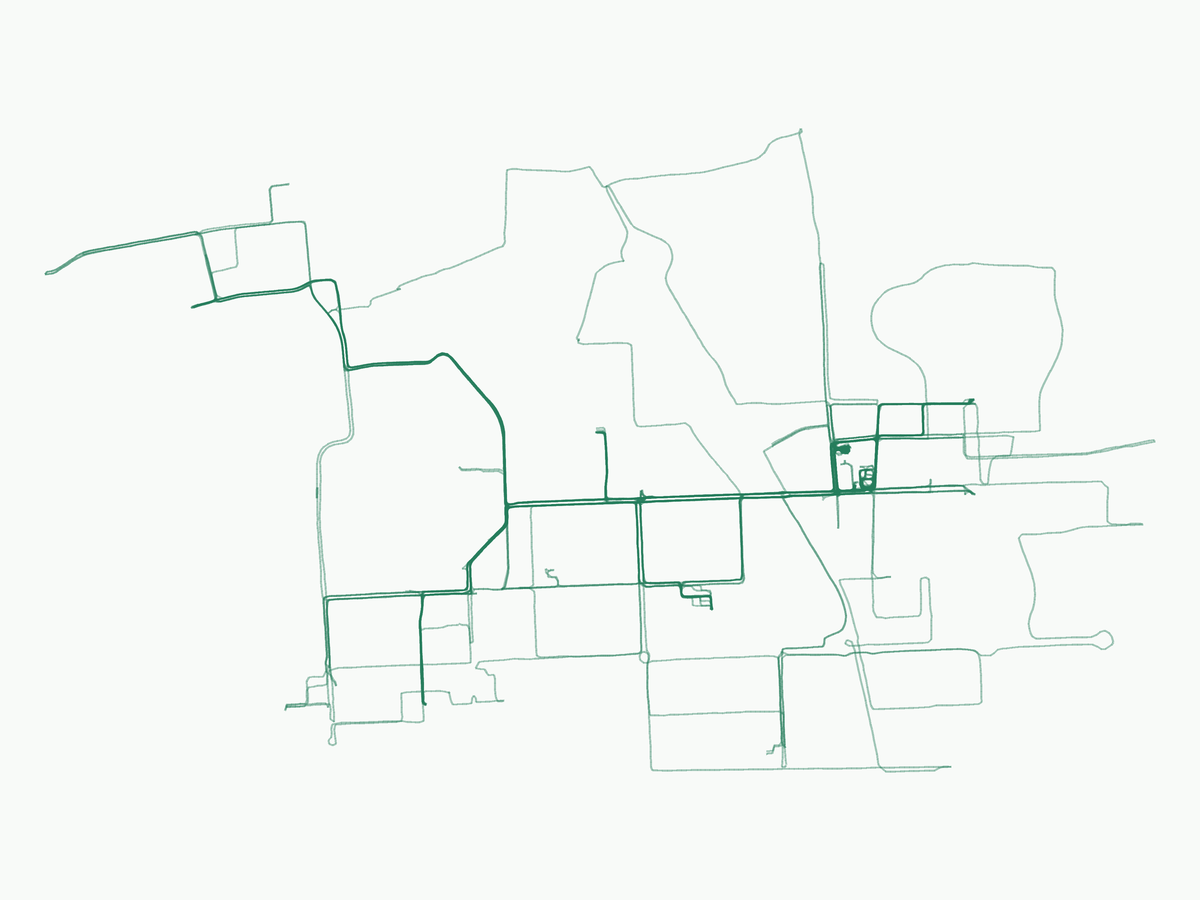
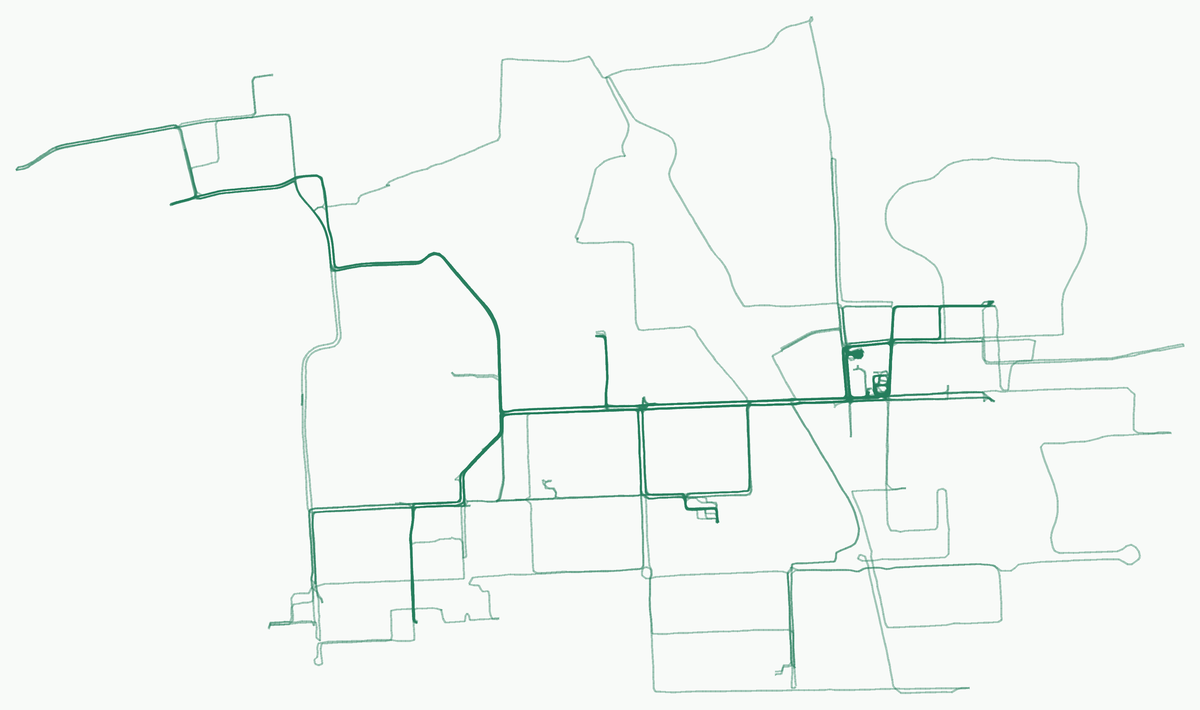
Fit track images and verify complete public update publication

diff --git a/nbmap/cloud.py b/nbmap/cloud.py
@@ -181,10 +181,26 @@ def publish_site_data(root, dataset, destination, updated_at):
         write_text(hosts_path, destination['known_hosts'].strip() + '\n')
         result = command(['ssh', '-T', '-i', str(key_path), '-p', str(port), '-o', 'IdentitiesOnly=yes', '-o', 'BatchMode=yes',
                  '-o', 'StrictHostKeyChecking=yes', '-o', f'UserKnownHostsFile={hosts_path}',
-                 f'{user}@{host}', 'publish-map'], data=body, timeout=120)
-        if result.stdout.decode().strip() != 'Published public map ' + digest:
-            raise ValueError('服务器发布回执与地图数据不一致')
-    return digest
+                 f'{user}@{host}', 'publish-map'], data=body, timeout=120, check=False)
+        if result.returncode:
+            raise CommandFailure(['ssh', '-T'], result)
+        prefix = 'Public map receipt: '
+        reply = result.stdout.decode().strip()
+        if not reply.startswith(prefix):
+            raise ValueError('服务器发布回执无效')
+        receipt = json.loads(reply[len(prefix):])
+        if not isinstance(receipt, dict) or set(receipt) != {'status', 'reason', 'sha256', 'updated_at', 'requested_updated_at'} or not re.fullmatch(r'[a-f0-9]{64}', receipt.get('sha256', '')) or receipt.get('requested_updated_at') != public['updated_at']:
+            raise ValueError('服务器发布回执无效')
+        if receipt['status'] == 'skipped_older':
+            if receipt['reason'] != 'current_is_newer' or datetime.fromisoformat(receipt['updated_at'].replace('Z', '+00:00')) <= datetime.fromisoformat(public['updated_at'].replace('Z', '+00:00')):
+                raise ValueError('服务器拒旧回执无效')
+        elif receipt['status'] in ('published', 'unchanged'):
+            if receipt['sha256'] != digest or receipt['updated_at'] != public['updated_at']:
+                raise ValueError('服务器发布回执与地图数据不一致')
+        else:
+            raise ValueError('服务器发布回执状态无效')
+        print('Site receipt: ' + json.dumps(receipt, sort_keys=True))
+        return receipt
 
 
 def execute_worker(payload, key, session, settings, root, *, force=False, publish_only=False, source=None, now=None):
@@ -236,6 +252,15 @@ def execute_worker(payload, key, session, settings, root, *, force=False, publis
 def worker(root):
     # Every failure message is fixed text; never print upstream bodies, secret envs or tracebacks.
     settings = read_json(root / 'sync-settings.json')
+    public_request = os.environ.get('SYNC_PUBLIC_REQUEST_ID', '')
+    if public_request:
+        if not re.fullmatch(r'[a-f0-9]{8}-[a-f0-9]{4}-4[a-f0-9]{3}-[89ab][a-f0-9]{3}-[a-f0-9]{12}', public_request):
+            raise ValueError('公开更新请求标识无效')
+        if os.environ.get('SYNC_FORCE', '').lower() != 'true' or os.environ.get('SYNC_PUBLISH_ONLY', '').lower() == 'true':
+            raise ValueError('公开更新必须执行采集')
+        destinations = settings.get('publish_repos', [])
+        if not settings.get('enabled', True) or not settings.get('site') or len(destinations) != 2 or len({item.get('repo') for item in destinations}) != 2:
+            raise ValueError('公开更新需要启用同步、网站和两个图片目标')
     command(['git', 'fetch', '--depth', '1', 'origin', 'state'], cwd=root)
     blob = command(['git', 'show', 'FETCH_HEAD:state.enc'], cwd=root).stdout
     key = os.environ['CLOUD_STATE_KEY'].encode()
@@ -255,11 +280,13 @@ def worker(root):
             shutil.copyfile(root / 'github-known-hosts', temporary / 'known-hosts')
             publish_image(temporary, image, settings.get('publish_repos', []))
             if settings.get('site'):
-                updated['files']['sessions/schedule-state.json']['site_sha256'] = publish_site_data(temporary, datasets[0], settings['site'], updated['files']['sessions/schedule-state.json']['last_success'])
+                receipt = publish_site_data(temporary, datasets[0], settings['site'], updated['files']['sessions/schedule-state.json']['last_success'])
+                state = updated['files']['sessions/schedule-state.json']
+                state.update(site_sha256=receipt['sha256'], site_publication_status=receipt['status'], site_data_updated_at=receipt['updated_at'], site_checked_at=datetime.now(timezone.utc).isoformat())
             publication = updated['files']['sessions/schedule-state.json']
             publication['publication_pending'] = False
             publication.pop('publication_error', None)
-            if settings.get('site'):
+            if settings.get('site') and receipt['status'] == 'published':
                 publication['site_published_at'] = datetime.now(timezone.utc).isoformat()
             if settings.get('publish_repos'):
                 publication['image_published_at'] = datetime.now(timezone.utc).isoformat()
@@ -279,7 +306,7 @@ def worker(root):
              'commit', '-m', 'Update encrypted sync state'], cwd=output)
     command(['git', 'push', 'origin', 'HEAD:state'], cwd=output)
     state = updated['files'].get('sessions/schedule-state.json', {})
-    print('Publication receipt: ' + json.dumps({'mode': 'publish_only' if publish_only else 'sync', 'last_success_before': previous_success, 'last_success_after': state.get('last_success'), 'publication_pending': state.get('publication_pending'), 'site_sha256': state.get('site_sha256')}))
+    print('Publication receipt: ' + json.dumps({'mode': 'publish_only' if publish_only else 'sync', 'last_success_before': previous_success, 'last_success_after': state.get('last_success'), 'publication_pending': state.get('publication_pending'), 'site_sha256': state.get('site_sha256'), 'site_status': state.get('site_publication_status'), 'site_updated_at': state.get('site_data_updated_at')}))
     print('Encrypted checkpoint saved. Only configured display outputs were published.')
     return code
 

diff --git a/tests/test_public_map.py b/tests/test_public_map.py
@@ -94,11 +94,25 @@ class PublicMapTests(unittest.TestCase):
             original = target.read_bytes()
             old = copy.deepcopy(data)
             old['updated_at'] = '2020-01-01T00:00:00Z'
-            for payload in [old, {**data, 'tokens': 'PRIVATE_SENTINEL'}]:
-                result = send(payload)
-                self.assertEqual(result.returncode, 1)
-                self.assertNotIn(b'PRIVATE_SENTINEL', result.stderr)
-                self.assertEqual(target.read_bytes(), original)
+            old['tracks'][0]['points'][0][0] += .0001
+            result = send(old)
+            self.assertEqual(result.returncode, 0)
+            receipt = json.loads(result.stdout.decode().split('Public map receipt: ')[1])
+            self.assertEqual(receipt['status'], 'skipped_older')
+            self.assertEqual(receipt['reason'], 'current_is_newer')
+            self.assertEqual(target.read_bytes(), original)
+            receipt = json.loads(send(data).stdout.decode().split('Public map receipt: ')[1])
+            self.assertEqual(receipt['status'], 'unchanged')
+            self.assertEqual(target.read_bytes(), original)
+            result = send({**data, 'tokens': 'PRIVATE_SENTINEL'})
+            self.assertEqual(result.returncode, 1)
+            self.assertNotIn(b'PRIVATE_SENTINEL', result.stderr)
+            self.assertEqual(target.read_bytes(), original)
+            newer = copy.deepcopy(data)
+            newer['updated_at'] = '2026-10-05T08:00:00Z'
+            receipt = json.loads(send(newer).stdout.decode().split('Public map receipt: ')[1])
+            self.assertEqual(receipt['status'], 'published')
+            self.assertEqual(json.loads(target.read_bytes())['updated_at'], newer['updated_at'])
 
     def test_loopback_static_server_allows_only_get_head_and_exported_paths(self):
         spec = importlib.util.spec_from_file_location('static_map_server', 'scripts/serve-public-map.py')
@@ -154,7 +168,7 @@ class PublicMapTests(unittest.TestCase):
                 self.assertEqual(key_path.stat().st_mode & 0o777, 0o600)
                 validate_public(json.loads(kwargs['data']))
                 self.assertNotIn(b'snapshot_ids', kwargs['data'])
-                return subprocess.CompletedProcess(args, 0, stdout=('Published public map ' + hashlib.sha256(kwargs['data']).hexdigest() + '\n').encode(), stderr=b'')
+                return subprocess.CompletedProcess(args, 0, stdout=('Public map receipt: ' + json.dumps({'status':'published','reason':'accepted','sha256':hashlib.sha256(kwargs['data']).hexdigest(),'updated_at':'2026-10-05T08:00:00Z','requested_updated_at':'2026-10-05T08:00:00Z'}) + '\n').encode(), stderr=b'')
             with patch.dict('os.environ', {'MAP_DEPLOY_KEY': 'synthetic-secret'}), patch('nbmap.cloud.command', side_effect=send):
                 publish_site_data(root, source, {'host': 'example.invalid', 'user': 'map', 'known_hosts': 'synthetic public host key'}, '2026-10-05T08:00:00Z')
             self.assertEqual(len(calls), 1)
@@ -182,7 +196,7 @@ class PublicMapTests(unittest.TestCase):
                 return result
             with patch.dict('os.environ', {'MAP_DEPLOY_KEY': 'synthetic-secret'}), patch('nbmap.cloud.command', side_effect=receive):
                 receipt = publish_site_data(sender, source, {'host': 'example.invalid', 'user': 'map', 'known_hosts': 'synthetic public host key'}, '2026-10-05T08:00:00Z')
-            self.assertEqual(receipt, hashlib.sha256(target.read_bytes()).hexdigest())
+            self.assertEqual(receipt['sha256'], hashlib.sha256(target.read_bytes()).hexdigest())
             self.assertEqual(json.loads(target.read_bytes())['updated_at'], '2026-10-05T08:00:00Z')
             self.assertEqual(list(sender.iterdir()), [source])
 

diff --git a/tests/test_cloud.py b/tests/test_cloud.py
@@ -79,7 +79,7 @@ class CloudTests(unittest.TestCase):
                         (root / 'work/state-publish').mkdir(parents=True)
                     return subprocess.CompletedProcess(args, 0, stdout=seal(self.payload, self.key) if args[:2] == ['git', 'show'] else b'', stderr=b'')
                 log = io.StringIO()
-                with patch.dict('os.environ', {'CLOUD_STATE_KEY': self.key.decode(), 'NINEBOT_SESSION': 'not JSON' if publish_only else json.dumps(self.session), 'SYNC_FORCE': 'false', 'SYNC_PUBLISH_ONLY': str(publish_only).lower()}), patch('nbmap.cloud.command', side_effect=git), patch('nbmap.cloud.execute_worker', return_value=(updated, 0, [self.archive.path / 'prepared/dataset.json'])) as executor, patch('nbmap.cloud.publish_image'), patch('nbmap.cloud.publish_site_data', return_value='a' * 64, side_effect=RuntimeError('PRIVATE_SENTINEL') if failure else None), redirect_stdout(log):
+                with patch.dict('os.environ', {'CLOUD_STATE_KEY': self.key.decode(), 'NINEBOT_SESSION': 'not JSON' if publish_only else json.dumps(self.session), 'SYNC_FORCE': 'false', 'SYNC_PUBLISH_ONLY': str(publish_only).lower()}), patch('nbmap.cloud.command', side_effect=git), patch('nbmap.cloud.execute_worker', return_value=(updated, 0, [self.archive.path / 'prepared/dataset.json'])) as executor, patch('nbmap.cloud.publish_image'), patch('nbmap.cloud.publish_site_data', return_value={'status':'published','sha256':'a' * 64,'updated_at':NOW.isoformat()}, side_effect=RuntimeError('PRIVATE_SENTINEL') if failure else None), redirect_stdout(log):
                     self.assertEqual(worker(root), 1 if failure else 0)
                 state = unseal((root / 'work/state-publish/state.enc').read_bytes(), self.key)['files']['sessions/schedule-state.json']
                 self.assertEqual(state['last_success'], NOW.isoformat())
@@ -315,7 +315,8 @@ class CloudTests(unittest.TestCase):
         dataset = read_json(self.archive.path / 'prepared/dataset.json')
         path = render_tracks(dataset, self.root / 'tracks.png')
         with Image.open(path) as image:
-            self.assertEqual(image.size, (1200, 900))
+            self.assertLessEqual(image.width, 1200)
+            self.assertLessEqual(image.height, 900)
             self.assertEqual(image.info, {})
             self.assertGreater(len(image.getcolors(image.width * image.height)), 1)
         original = '# Existing project\n\nKeep this text.\n'

diff --git a/tests/test_public_update_worker.py b/tests/test_public_update_worker.py
@@ -1,0 +1,42 @@
+import json
+import tempfile
+import unittest
+from pathlib import Path
+from unittest.mock import patch
+
+from nbmap.cloud import worker
+
+
+class PublicUpdateWorkerTests(unittest.TestCase):
+    def test_public_collection_requires_all_approved_outputs(self):
+        settings = {'enabled': True, 'site': {'host': 'example.invalid'},
+                    'publish_repos': [{'repo': 'owner/map'}, {'repo': 'owner/owner'}]}
+        with tempfile.TemporaryDirectory() as directory:
+            root = Path(directory)
+            variants = [dict(settings, site=None), dict(settings, enabled=False),
+                        dict(settings, publish_repos=[{'repo': 'owner/map'}]),
+                        dict(settings, publish_repos=[{'repo': 'owner/map'}, {'repo': 'owner/map'}])]
+            for incomplete in variants:
+                (root / 'sync-settings.json').write_text(json.dumps(incomplete))
+                with patch.dict('os.environ', {'SYNC_PUBLIC_REQUEST_ID': '12345678-1234-4123-8123-123456789012',
+                                             'SYNC_FORCE': 'true', 'SYNC_PUBLISH_ONLY': 'false'}, clear=True):
+                    with self.assertRaisesRegex(ValueError, '网站和两个图片目标'):
+                        worker(root)
+
+    def test_public_request_cannot_republish_without_collecting(self):
+        with tempfile.TemporaryDirectory() as directory:
+            root = Path(directory)
+            (root / 'sync-settings.json').write_text('{}')
+            for force, publish_only in [('false', 'false'), ('true', 'true')]:
+                with patch.dict('os.environ', {'SYNC_PUBLIC_REQUEST_ID': '12345678-1234-4123-8123-123456789012',
+                                             'SYNC_FORCE': force, 'SYNC_PUBLISH_ONLY': publish_only}, clear=True):
+                    with self.assertRaisesRegex(ValueError, '必须执行采集'):
+                        worker(root)
+
+    def test_public_request_id_is_validated_before_collection(self):
+        with tempfile.TemporaryDirectory() as directory:
+            root = Path(directory)
+            (root / 'sync-settings.json').write_text('{}')
+            with patch.dict('os.environ', {'SYNC_PUBLIC_REQUEST_ID': 'arbitrary input'}, clear=True):
+                with self.assertRaisesRegex(ValueError, '请求标识无效'):
+                    worker(root)

diff --git a/tests/test_track_image.py b/tests/test_track_image.py
@@ -1,0 +1,40 @@
+import copy
+import json
+import tempfile
+import unittest
+from pathlib import Path
+
+from PIL import Image, ImageChops
+
+from nbmap.track_image import render_tracks
+
+
+class TrackImageTests(unittest.TestCase):
+    def test_long_flat_routes_have_small_margin_on_all_four_sides(self):
+        data = json.loads(Path('tests/fixtures/synthetic-map.json').read_text())
+        for track in data['tracks']:
+            for point in track['points']:
+                point['latitude'] = 39.9
+        with tempfile.TemporaryDirectory() as directory:
+            path = render_tracks(data, Path(directory) / 'tracks.png')
+            with Image.open(path) as image:
+                bounds = ImageChops.difference(image, Image.new('RGB', image.size, '#f8faf8')).getbbox()
+                self.assertIsNotNone(bounds)
+                self.assertLess(image.height, 50)
+                margins = [bounds[0], bounds[1], image.width - bounds[2], image.height - bounds[3]]
+                self.assertTrue(all(10 <= value <= 17 for value in margins), margins)
+                self.assertEqual(image.info, {})
+
+    def test_empty_tracks_still_produce_valid_png_without_metadata(self):
+        data = json.loads(Path('tests/fixtures/synthetic-map.json').read_text())
+        data = copy.deepcopy(data)
+        for ride in data['rides']:
+            ride.update(track_kind='missing', source_point_count=0, map_status='insufficient_points')
+        data['tracks'] = []
+        data['summary'].update(map_ride_count=0, map_distance_m=0, map_point_count=0,
+                               map_exclusions={'insufficient_points': len(data['rides'])})
+        with tempfile.TemporaryDirectory() as directory:
+            with Image.open(render_tracks(data, Path(directory) / 'empty.png')) as image:
+                self.assertEqual(image.size, (1200, 900))
+                self.assertEqual(image.info, {})
+                self.assertEqual(len(image.getcolors(image.width * image.height)), 1)

diff --git a/scripts/receive-public-map.py b/scripts/receive-public-map.py
@@ -5,10 +5,11 @@ import fcntl
 import hashlib
 import json
 import sys
+from datetime import datetime
 from pathlib import Path
 
 sys.path.insert(0, str(Path(__file__).resolve().parents[1]))
-from nbmap.public_map import publish_dataset
+from nbmap.public_map import publish_dataset, validate_public
 from nbmap.map_server import MAX_BYTES
 
 
@@ -23,8 +24,25 @@ def main():
     args.target.parent.mkdir(parents=True, exist_ok=True)
     with (args.target.parent.parent / '.publish-map.lock').open('a') as lock:
         fcntl.flock(lock, fcntl.LOCK_EX)
-        publish_dataset(data, args.target)
-    print('Published public map ' + hashlib.sha256(args.target.read_bytes()).hexdigest())
+        validate_public(data)
+        requested = data['updated_at']
+        status, reason = 'published', 'accepted'
+        before = args.target.read_bytes() if args.target.exists() else None
+        if before is not None:
+            current = validate_public(json.loads(before))
+            if datetime.fromisoformat(requested.replace('Z', '+00:00')) < datetime.fromisoformat(current['updated_at'].replace('Z', '+00:00')):
+                status, reason = 'skipped_older', 'current_is_newer'
+            else:
+                publish_dataset(data, args.target)
+                if args.target.read_bytes() == before:
+                    status, reason = 'unchanged', 'identical_bytes'
+        else:
+            publish_dataset(data, args.target)
+        active = args.target.read_bytes()
+        receipt = {'status': status, 'reason': reason, 'sha256': hashlib.sha256(active).hexdigest(),
+                   'updated_at': json.loads(active)['updated_at'], 'requested_updated_at': requested}
+        print('Public map receipt: ' + json.dumps(receipt, sort_keys=True))
+
 
 
 if __name__ == '__main__':

diff --git a/nbmap/track_image.py b/nbmap/track_image.py
@@ -1,14 +1,14 @@
 """Render only sampled tracks to a PNG, without a basemap or geographic metadata."""
 import math
 from pathlib import Path
-from PIL import Image, ImageDraw
+from PIL import Image, ImageChops, ImageDraw
 from .dataset import validate_dataset
 
 
 def render_tracks(dataset, path, width=1200, height=900):
     validate_dataset(dataset)
     points = [p for t in dataset['tracks'] for p in t['points']]
-    scale, margin = 3, 45
+    scale, margin = 3, 16
     image = Image.new('RGB', (width * scale, height * scale), '#f8faf8')
     if points:
         lon0 = sum(p['longitude'] for p in points) / len(points)
@@ -32,5 +32,10 @@ def render_tracks(dataset, path, width=1200, height=900):
                     draw.line([pixel(first), pixel(second)], fill=(36, 124, 91, 105), width=2 * scale)
     path = Path(path)
     path.parent.mkdir(parents=True, exist_ok=True)
-    image.resize((width, height), Image.Resampling.LANCZOS).save(path, format='PNG', optimize=True)
+    bounds = ImageChops.difference(image, Image.new('RGB', image.size, '#f8faf8')).getbbox()
+    if bounds:
+        padding = margin * scale
+        image = image.crop((max(0, bounds[0] - padding), max(0, bounds[1] - padding),
+                            min(image.width, bounds[2] + padding), min(image.height, bounds[3] + padding)))
+    image.resize((math.ceil(image.width / scale), math.ceil(image.height / scale)), Image.Resampling.LANCZOS).save(path, format='PNG', optimize=True)
     return path

diff --git a/scripts/serve-public-map.py b/scripts/serve-public-map.py
@@ -1,5 +1,4 @@
 #!/usr/bin/env python3
-"""Serve allowlisted map assets and optional public Actions updates on loopback."""
 import argparse
 import hashlib
 from http.server import BaseHTTPRequestHandler, ThreadingHTTPServer

diff --git a/nbmap/public_updates.py b/nbmap/public_updates.py
@@ -1,4 +1,3 @@
-"""Durable public admission and read-only reconciliation of private Actions runs."""
 from dataclasses import dataclass, field
 from datetime import datetime, timedelta, timezone
 import fcntl

diff --git a/.agents/skills/verify-ninebot-map/SKILL.md b/.agents/skills/verify-ninebot-map/SKILL.md
@@ -23,14 +23,14 @@ The refresh harness also performs a read-only HTTP doctor on its owned instance 
 
 - `npm run verify:smoke` checks project layout and the real local map refresh path.
 - `npm run verify` runs project structure, Python, model, browser, wheel and refresh suites.
-- `npm run verify -- --suite map` covers endpoint loading, date filtering, labels, themes and basemap behavior.
+- `npm run verify -- --suite map` covers endpoint loading, activity navigation, labels, system theme and basemap behavior.
 - `npm run verify -- --suite wheel` covers production wheel handling at two device pixel ratios.
-- `npm run verify -- --suite refresh` covers valid updates, preserved controls, invalid replacement and read-only data ownership.
+- `npm run verify -- --suite refresh` covers valid updates, preserved controls, invalid replacement and public-update UI responses.
 - `npm run verify -- --suite static` covers public export, relative resource paths, no-import UI, no-ETag refresh and rejected uploads.
 - `npm run verify -- --suite python` covers collector, local server, scheduler and cloud behavior with synthetic adapters.
 - `npm run verify -- --suite model` covers route, grid and destination calculations.
 
-Use existing selectors and actions in the harnesses. The refresh recipe fills `#from` and `#to`, toggles `#show-grid`, saves a name through `#label-form`, replaces its synthetic source file, and brings the page to the foreground. It reads `#history-stat`, `#visible-stat`, the controls and the saved name afterward.
+Use existing selectors and actions in the harnesses. The refresh recipe toggles `#show-grid`, saves a name through `#label-form`, replaces its synthetic source file, and brings the page to the foreground. It reads `#history-stat`, `#visible-stat`, the controls and the saved name afterward. Public-update fixtures use `#update-map` and the same hint as `#running`; the Python suite proves the global cooldown and HTTP boundary with synthetic Actions responses.
 
 ## Evidence
 

diff --git a/docs/static-deployment.md b/docs/static-deployment.md
@@ -51,7 +51,7 @@ Along 页面读取地图数据，并可通过指定服务器请求 GitHub Action
 5. 私有工作流采用 `templates/cloud-sync.yml`。公开请求携带服务器生成的 UUID v4，工作流使用 `Along public <UUID>` 的运行名称。采集端要求网站和两个不同的 PNG 目标均已配置。
 6. 重载 systemd 并重启 `ninebot-map-site.service`。先检查只读 `GET /api/update`，再用一次获授权的 POST 检查真实 Actions、地图和两处 PNG 发布。
 
-缺少配置或 credential 时，网页和已有地图继续可用，更新状态为 `unavailable`。普通静态托管不会获得触发能力。服务模板默认注释 credential 指令，避免未配置令牌时影响地图托管。
+缺少配置或 credential 时，网页和已有地图继续可用，更新状态为 `unavailable`。普通静态托管不会获得触发能力。配置令牌后再向服务添加 credential 指令，避免未配置时影响地图托管。
 
 API 仅返回 `phase`、`can_request`、`requested_at` 和 `next_allowed_at`。`phase` 为 `idle`、`queued`、`running`、`succeeded`、`failed`、`unknown` 或 `unavailable`。GET 读取数据库，不访问 GitHub。POST 必须携带 JSON 空对象、匹配配置的 Origin，且不能来自 cross-site 或 same-site 页面。请求体上限为 64 字节。不返回 CORS 头、私有仓库地址、上游错误正文、运行 URL 或令牌。
 

diff --git a/README.md b/README.md
@@ -1,4 +1,4 @@
-# Ninebot Map
+# Along
 
 采集九号骑行数据，在本机查看轨迹地图，导出 CSV 和 JSON，并通过 GitHub Actions 定期同步。
 
@@ -31,7 +31,7 @@ cd ninebot-map
 ./run map                             # 打开已选车辆或唯一车辆的本地地图
 ```
 
-地图支持路线叠加、日期筛选、经过区域次数和终点地点列表。后续同步沿用已保存的地图范围。
+地图支持路线叠加、经过区域次数和终点地点列表。页面以 Riding ｜ Running 区分活动，Running 暂未接入数据。后续同步沿用已保存的地图范围。
 
 ## 云端同步
 
